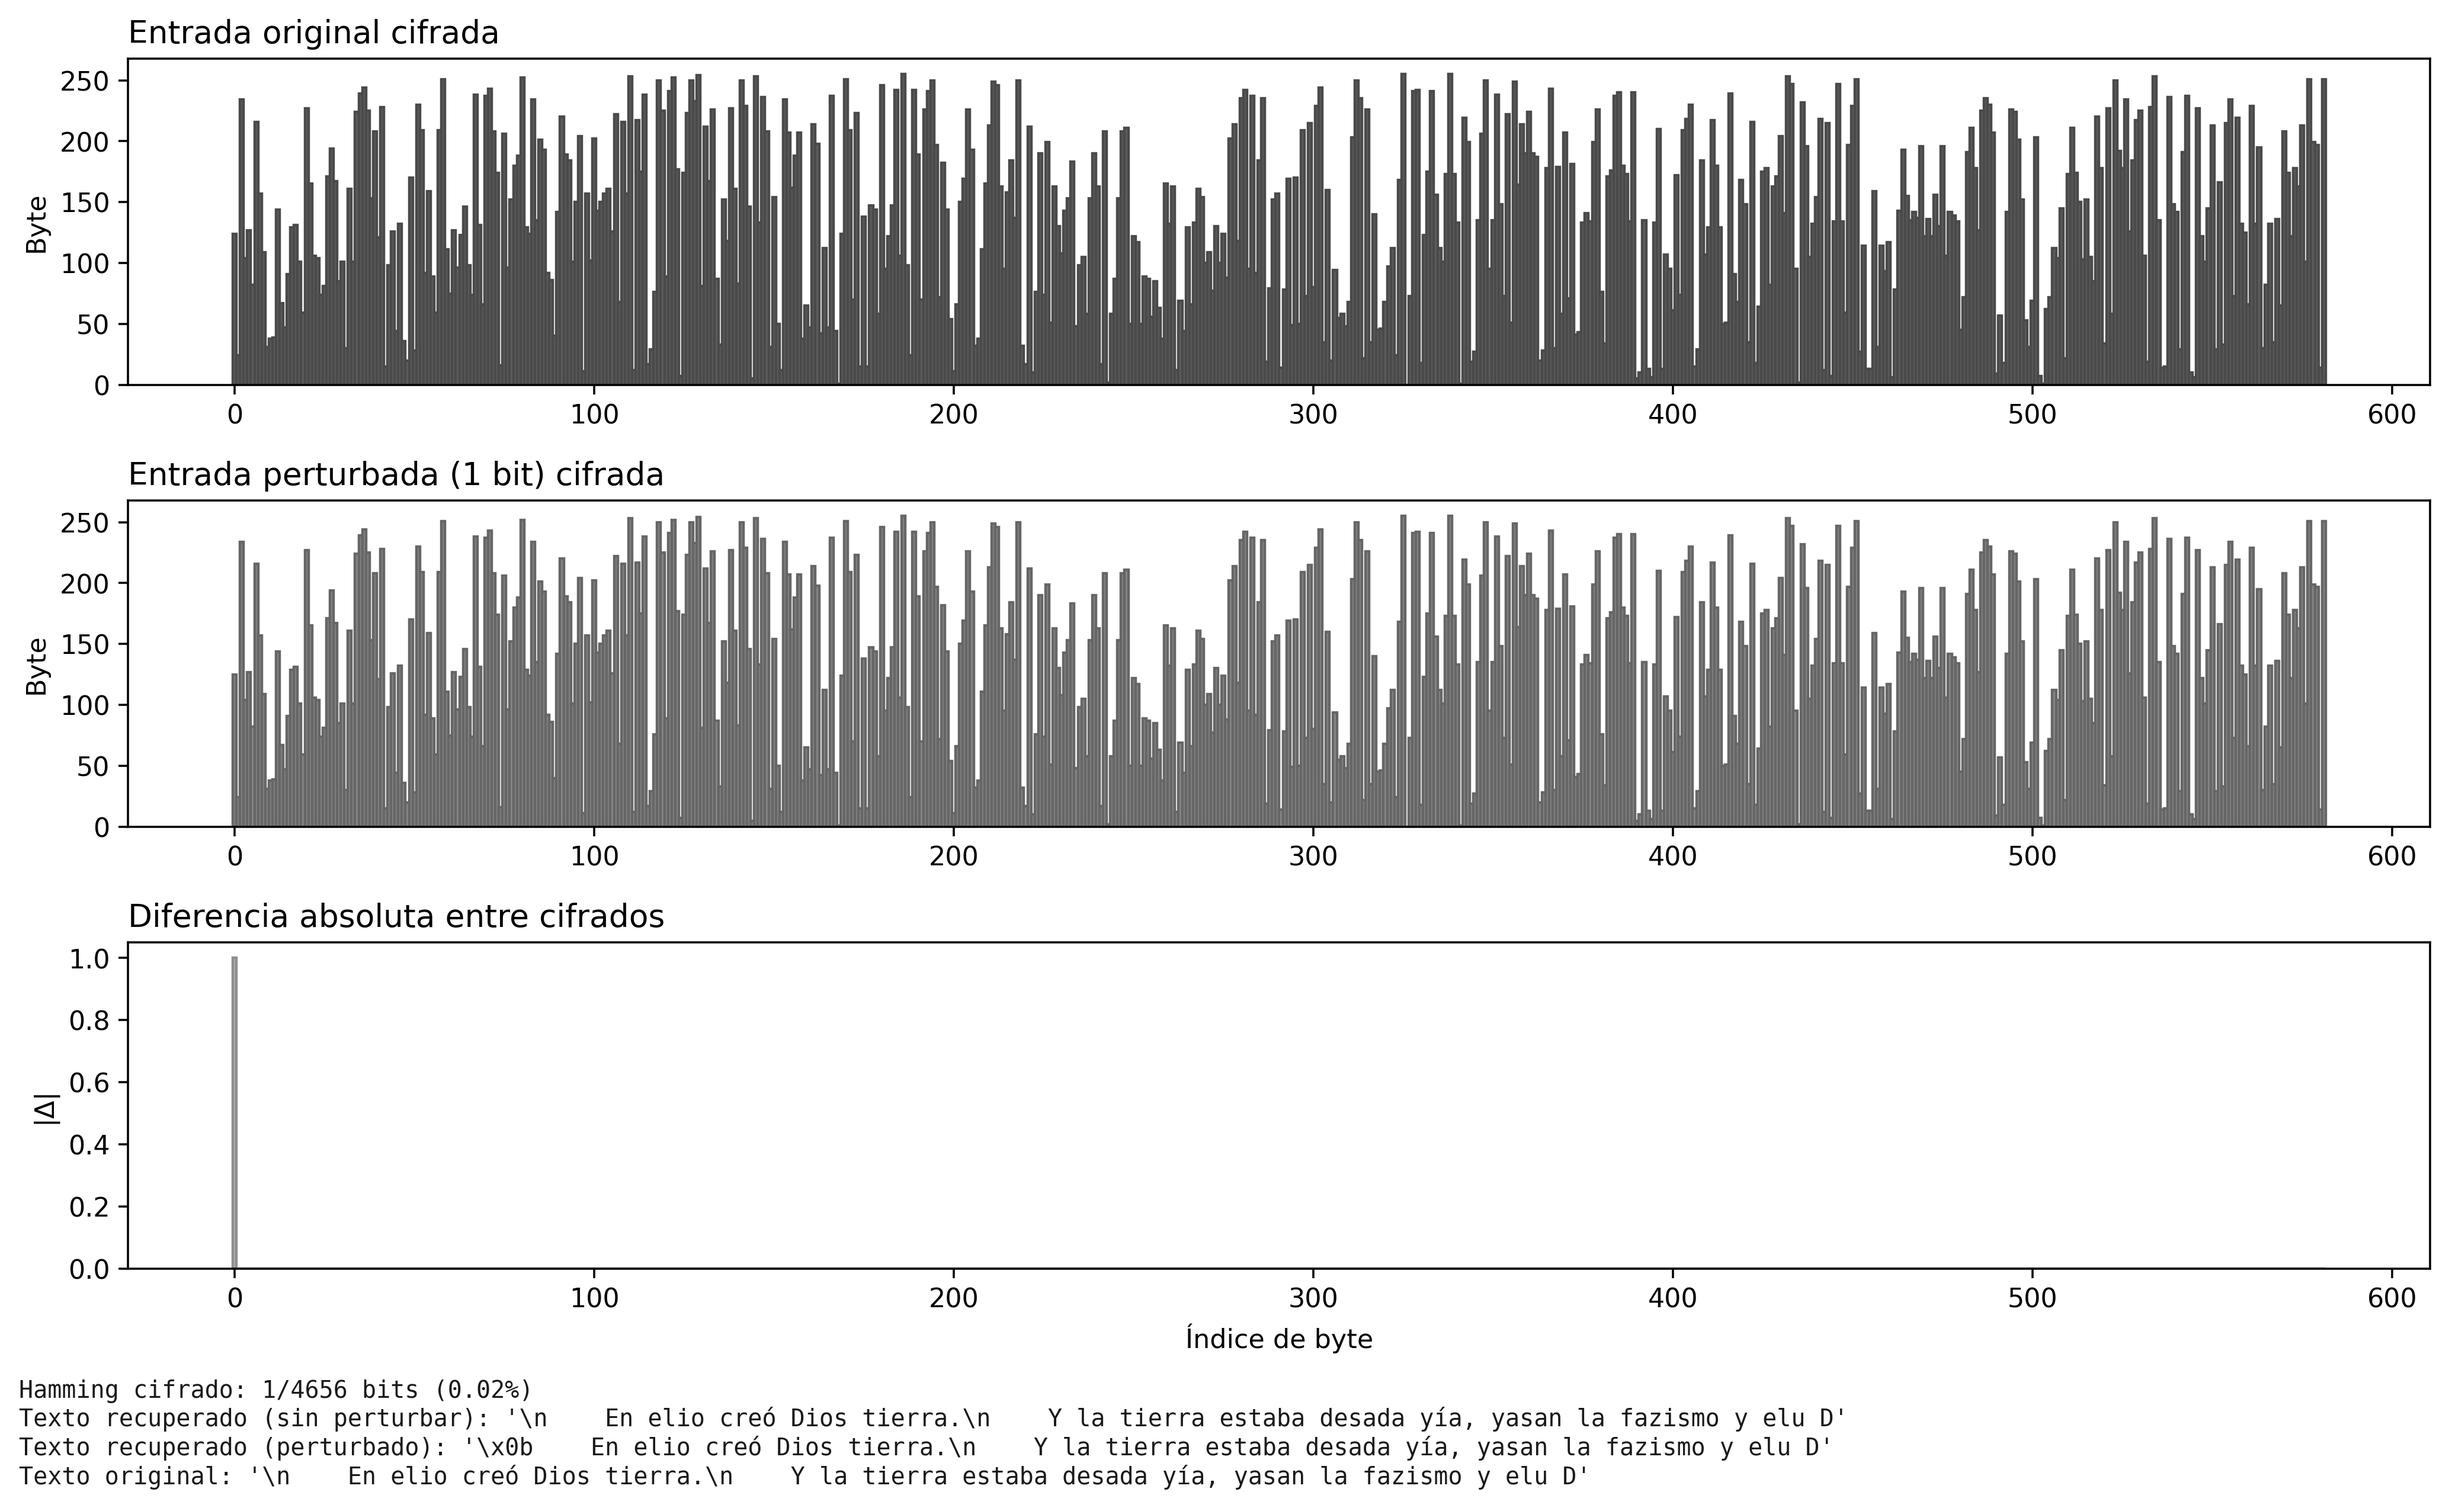
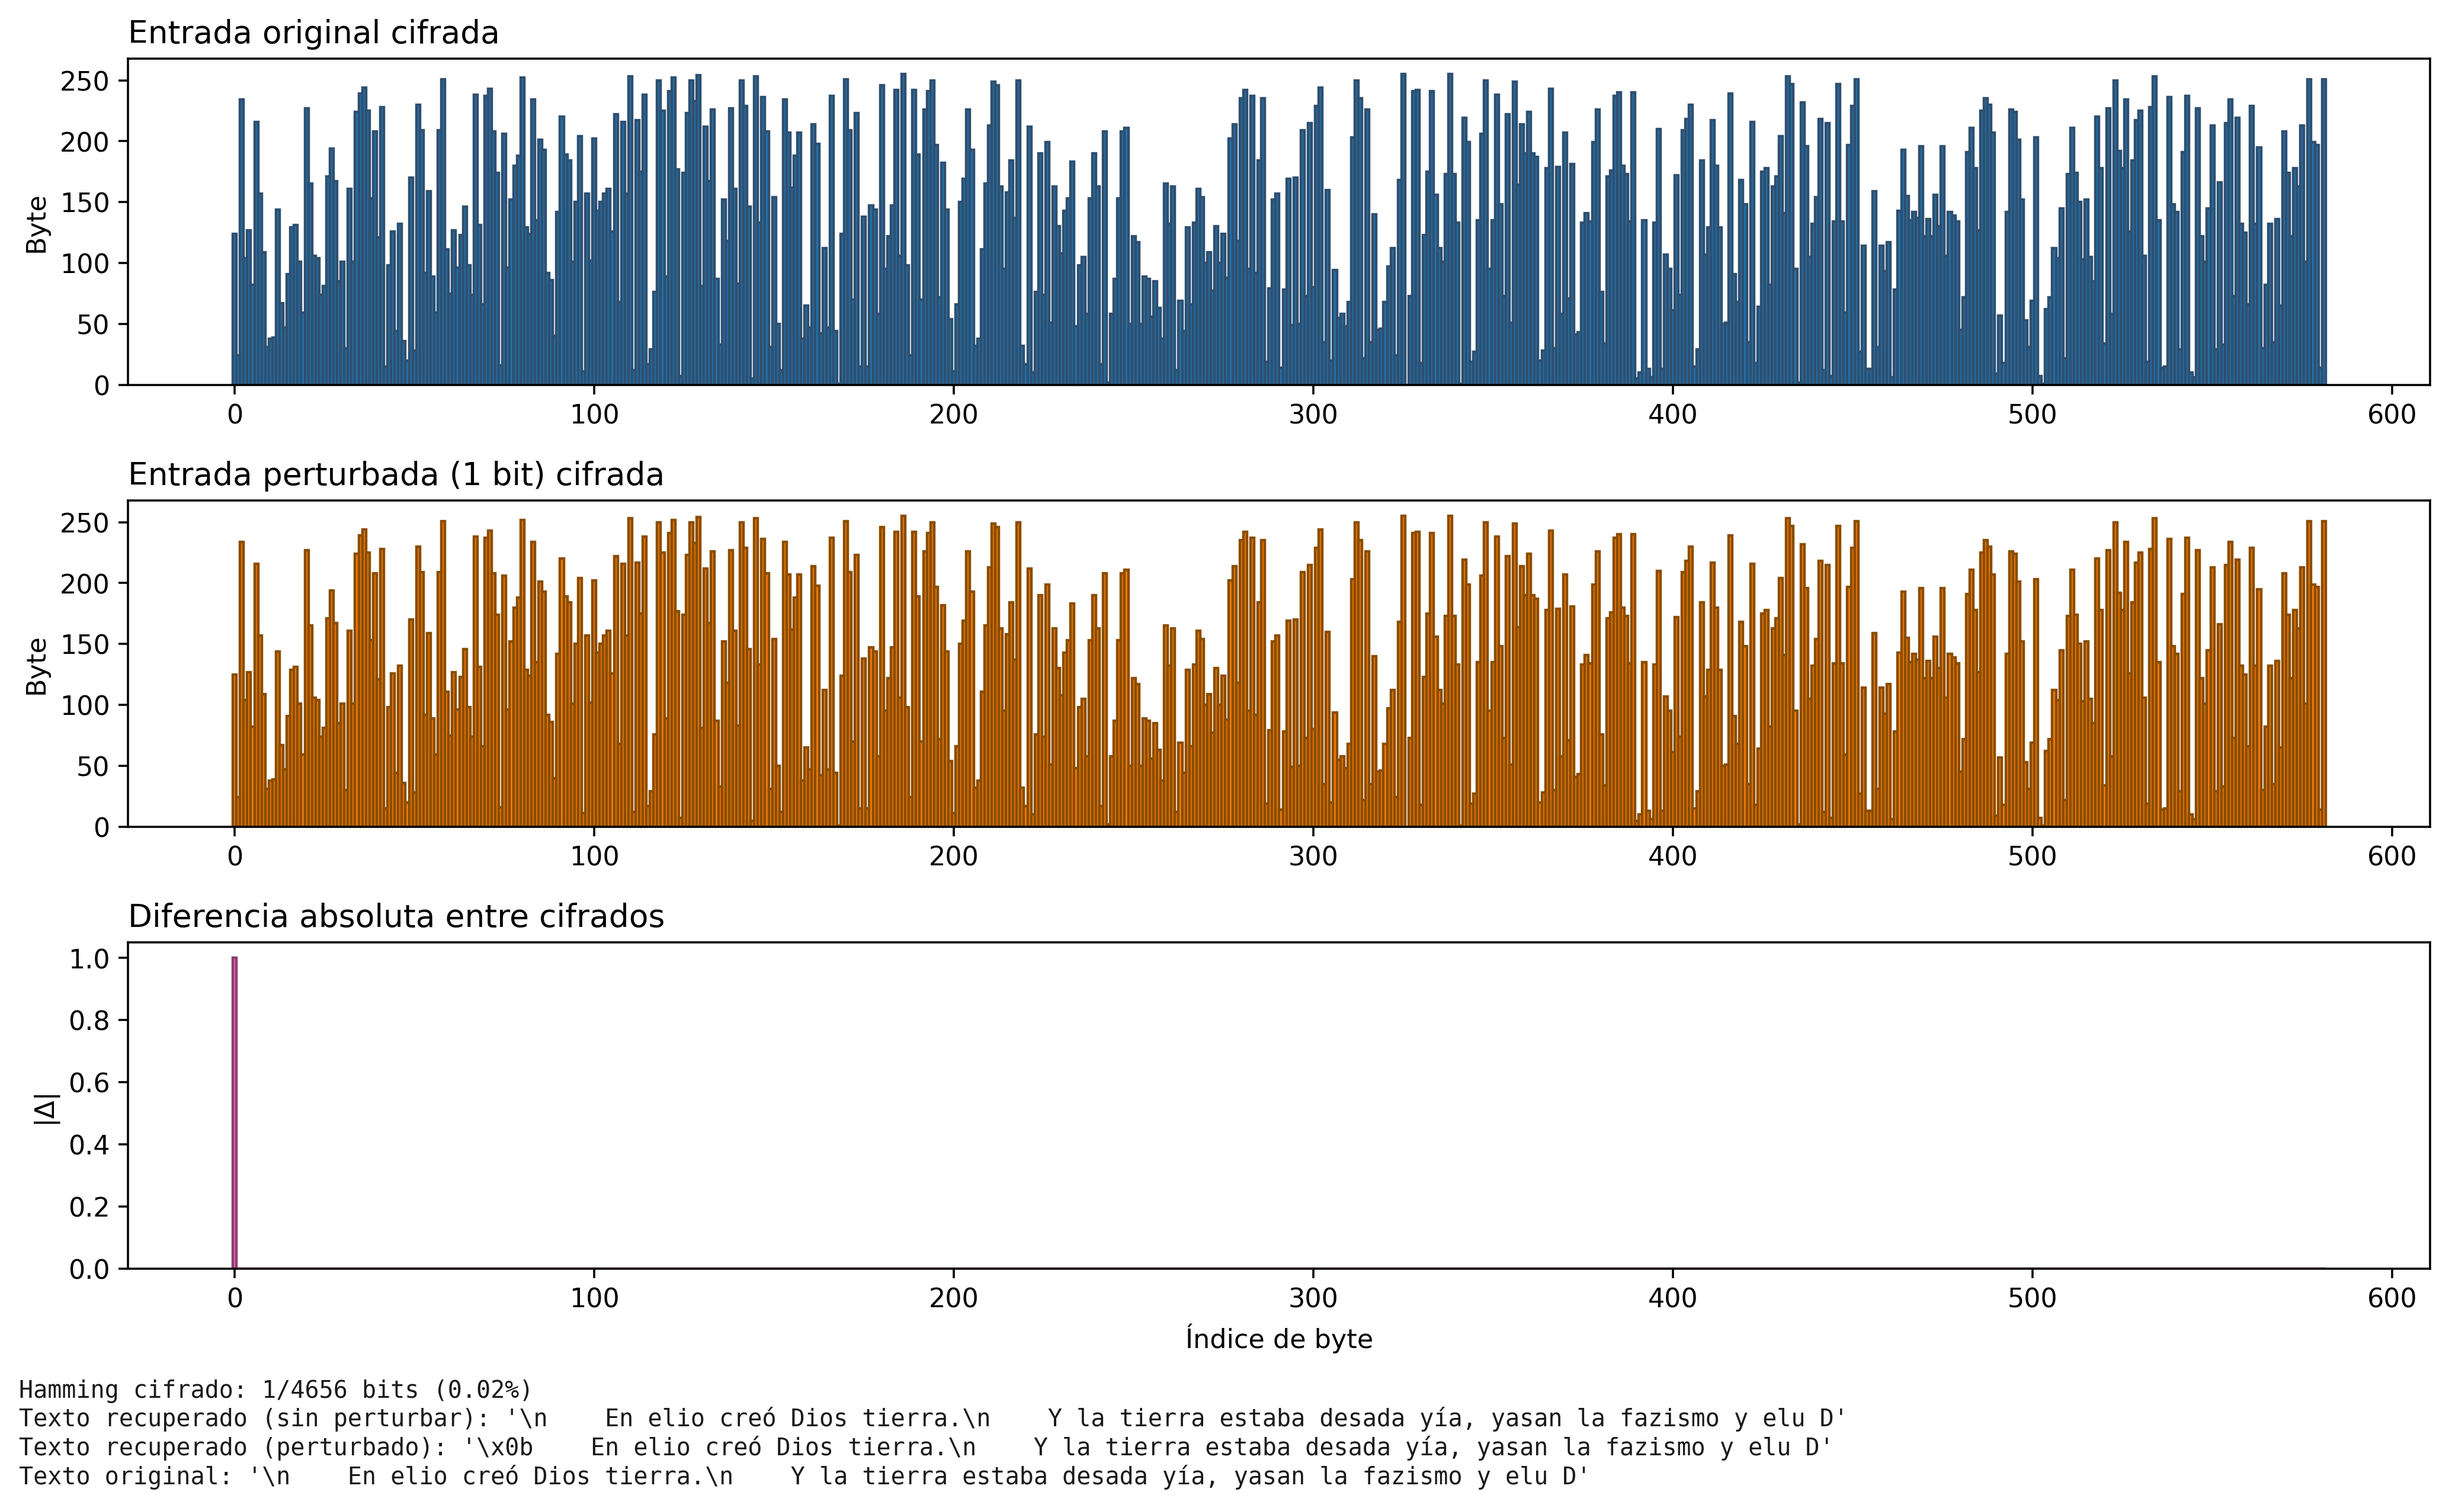
feat(docs): automatizar inyección de valores, zooms en Sec 1 y color en fallo perturbación

Changed region(s): [[0.0936, 0.031, 0.9673, 0.2793], [0.0936, 0.3413, 0.9673, 0.5585]]

diff --git a/scripts/generar_analisis_completo.py b/scripts/generar_analisis_completo.py
@@ -18,6 +18,7 @@ Uso:
 from __future__ import annotations
 
 import json
+import re
 import wave
 from math import log
 from pathlib import Path
@@ -821,16 +822,34 @@ def generar_6_fallo_perturbacion(datos):
         ax.set_facecolor("white")
 
     x = np.arange(len(enc_ori))
-    axes[0].bar(x, enc_ori, color="#5f5f5f", width=1.0, edgecolor="#4a4a4a")
+    axes[0].bar(
+        x,
+        enc_ori,
+        color=COLORES["original"],
+        width=1.0,
+        edgecolor="#2f4f6f",
+    )
     axes[0].set_title("Entrada original cifrada", loc="left")
     axes[0].set_ylabel("Byte")
 
-    axes[1].bar(x, enc_per, color="#8a8a8a", width=1.0, edgecolor="#666666")
+    axes[1].bar(
+        x,
+        enc_per,
+        color=COLORES["modificado"],
+        width=1.0,
+        edgecolor="#8a4d00",
+    )
     axes[1].set_title("Entrada perturbada (1 bit) cifrada", loc="left")
     axes[1].set_ylabel("Byte")
 
     dif_abs = np.abs(enc_ori.astype(np.int16) - enc_per.astype(np.int16))
-    axes[2].bar(x, dif_abs, color="#b4b4b4", width=1.0, edgecolor="#8f8f8f")
+    axes[2].bar(
+        x,
+        dif_abs,
+        color=COLORES["fallo"],
+        width=1.0,
+        edgecolor="#8f3b74",
+    )
     axes[2].set_title("Diferencia absoluta entre cifrados", loc="left")
     axes[2].set_xlabel("Índice de byte")
     axes[2].set_ylabel("|Δ|")
@@ -860,6 +879,125 @@ def generar_6_fallo_perturbacion(datos):
         "total_bits": int(total_bits),
         "porcentaje_bits_dif": float(pct_bits_dif),
     }
+
+
+def generar_zooms_seccion_1(datos):
+    """Genera zooms comparativos de forma de onda para la Sección 1."""
+    print("\n--- Generando zooms de Sección 1 (onda original vs estegano)")
+
+    orig = datos["audio_original"]
+    mod = datos["audio_modificado"]
+
+    configuraciones = [
+        ("1_zoom_cerca.png", 500, "Zoom muy cercano"),
+        ("1_zoom_medio.png", 10_000, "Zoom medio"),
+        ("1_zoom_completo.png", len(orig), "Señal completa"),
+    ]
+
+    for nombre, n_muestras, titulo in configuraciones:
+        n = min(len(orig), n_muestras)
+        x = np.arange(n)
+
+        fig, ax = plt.subplots(figsize=(16, 4.5), facecolor="white")
+        ax.set_facecolor("white")
+
+        linewidth = 0.7 if n <= 10_000 else 0.2
+        ax.plot(
+            x,
+            orig[:n],
+            color=COLORES["original"],
+            linewidth=linewidth,
+            alpha=0.9,
+            label="Audio original",
+        )
+        ax.plot(
+            x,
+            mod[:n],
+            color=COLORES["modificado"],
+            linewidth=linewidth,
+            alpha=0.75,
+            label="Audio esteganografiado",
+        )
+
+        ax.set_title(f"Sección 1 — {titulo} ({n:,} muestras)", **FONT_TITLE)
+        ax.set_xlabel("Índice de muestra", **FONT_LABEL)
+        ax.set_ylabel("Amplitud", **FONT_LABEL)
+        ax.grid(alpha=0.15, color=COLORES["grid"])
+        ax.legend(loc="upper right", fontsize=10)
+
+        fig.tight_layout()
+        _guardar(fig, nombre)
+
+
+def inyectar_valores_en_readme(res_mse: dict) -> None:
+    """Reemplaza placeholders matemáticos en README con valores calculados."""
+    ruta_readme = SALIDA / "README.md"
+    if not ruta_readme.exists():
+        print(f"  [WARN] README no encontrado en {ruta_readme}")
+        return
+
+    contenido = ruta_readme.read_text(encoding="utf-8")
+
+    sigma_x = np.sqrt(res_mse["var_orig"])
+    sigma_y = np.sqrt(res_mse["var_mod"])
+
+    reemplazos = {
+        "{{VAL_COV}}": f"{res_mse['cov_orig_mod']:.8f}",
+        "{{VAL_PEARSON}}": f"{res_mse['r_audio']:.16f}",
+        "{{VAL_SIGMA_X}}": f"{sigma_x:.8f}",
+        "{{VAL_SIGMA_Y}}": f"{sigma_y:.8f}",
+        "{{VAL_MSE}}": f"{res_mse['mse']:.15e}",
+        "{{VAL_MSE_APROX}}": f"{res_mse['mse']:.10f}",
+        "{{VAL_PSNR}}": f"{res_mse['psnr_db']:.10f}",
+    }
+
+    faltantes = [token for token in reemplazos if token not in contenido]
+    for token, valor in reemplazos.items():
+        contenido = contenido.replace(token, valor)
+
+    # Fallback idempotente: si no hay placeholders, refrescar ecuaciones por patrón.
+    contenido = re.sub(
+        r"Cov\(X,Y\)=\d[\d\.eE\+\-]*",
+        f"Cov(X,Y)={res_mse['cov_orig_mod']:.8f}",
+        contenido,
+    )
+    contenido = re.sub(
+        r"\\rho=\\frac\{[^\n]*\}\{\([^\n]*\)\([^\n]*\)\}=[^\n]*",
+        lambda _m: (
+            "\\rho=\\frac"
+            f"{{{res_mse['cov_orig_mod']:.8f}}}"
+            f"{{({sigma_x:.8f})({sigma_y:.8f})}}={res_mse['r_audio']:.16f}"
+            "\\approx 1.0000000000"
+        ),
+        contenido,
+    )
+    contenido = re.sub(
+        r"MSE=\\frac\{1\}\{N\}\\sum_\{i=1\}\^\{N\}\(x_i-y_i\)\^2=[^\n]*",
+        lambda _m: (
+            "MSE=\\frac{1}{N}\\sum_{i=1}^{N}(x_i-y_i)^2="
+            f"{res_mse['mse']:.15e}\\approx{res_mse['mse']:.10f}"
+        ),
+        contenido,
+    )
+    contenido = re.sub(
+        r"PSNR=10\\log_\{10\}\\left\(\\frac\{32767\^2\}\{[^\n]*\}\right\)=[^\n]*",
+        lambda _m: (
+            "PSNR=10\\log_{10}\\left(\\frac{32767^2}{"
+            f"{res_mse['mse']:.15e}"
+            "}\\right)="
+            f"{res_mse['psnr_db']:.10f}\\,dB\\approx130.64\\,dB"
+        ),
+        contenido,
+    )
+
+    ruta_readme.write_text(contenido, encoding="utf-8")
+    print("  [OK] Inyección de valores en README.md completada")
+    if faltantes:
+        print(
+            "  [WARN] Placeholders no encontrados (ya inyectados previamente o ausentes):"
+        )
+        for token in faltantes:
+            print(f"    - {token}")
 
 
 def _panel_ataques_con_texto(datos, tipo: str, nombre_archivo: str):
@@ -1310,6 +1448,7 @@ def main():
     datos = cargar_datos()
 
     # Entregables específicos de Fase 1
+    generar_zooms_seccion_1(datos)
     res_fallo = generar_6_fallo_perturbacion(datos)
     generar_7_paneles_ataques(datos)
 
@@ -1323,6 +1462,9 @@ def main():
     res_rob = analisis_robustez(datos)
     res_seg = analisis_seguridad_clave(datos)
     visualizaciones_mejoradas(datos)
+
+    # Inyección automatizada de valores matemáticos en README
+    inyectar_valores_en_readme(res_mse)
 
     # Resumen final
     print("\n" + "=" * 60)

diff --git a/outputs/entrega_profesoras/README.md b/outputs/entrega_profesoras/README.md
@@ -13,11 +13,13 @@
 > 🎵 **Nota sobre la Portadora de Audio (Creative Commons):**
 > Para la ejecución de estas pruebas se seleccionó el archivo de audio *audio_original.wav*, proveniente de la pista ["Let it Go" by Rewob (Featuring debbizo)](https://ccmixter.org/files/rewob/70685), obtenida del repositorio libre CCMixter. Esta pista (BPM 128, 4:45 min) opera bajo licencia **Creative Commons Attribution Noncommercial (4.0)**, garantizando su libre uso para fines de investigación académica, mitigando cualquier conflicto de derechos de autor.
 
-**Formas de Onda Comparativas:** 
+**Formas de Onda Comparativas (multi-zoom):**
 
-![Comparación de Ondas de Audio (Señal Completa)](./audio_waveforms.png)
+| Zoom muy cerca (500 muestras) | Zoom medio (10.000 muestras) | Señal completa |
+|---|---|---|
+| ![Zoom cerca](./1_zoom_cerca.png) | ![Zoom medio](./1_zoom_medio.png) | ![Zoom completo](./1_zoom_completo.png) |
 
-> 💡 **Lectura de ejes (Figura `audio_waveforms.png`):**
+> 💡 **Lectura de ejes (Figuras `1_zoom_cerca.png`, `1_zoom_medio.png`, `1_zoom_completo.png`):**
 > - **Eje X:** índice temporal de muestra (posición de cada muestra en la señal; en el zoom se observan ~100 muestras consecutivas).
 > - **Eje Y:** amplitud de la señal PCM (valor digital de cada muestra, en escala de 16 bits con signo).
 >
@@ -105,7 +107,7 @@ $$
 Con los datos reales de la ejecución actual (audio original vs estegoaudio):
 
 $$
-Cov(X,Y)=65{,}883{,}266.40887324
+Cov(X,Y)=65883266.40887324
 $$
 
 - $Cov(X,Y)$: covarianza entre las señales original y esteganografiada.
@@ -127,7 +129,7 @@ $$
 Sustituyendo con los valores reales de audio original vs estegoaudio:
 
 $$
-\rho=\frac{65{,}883{,}266.40887324}{(8116.85076930908)(8116.85076902388)}=0.9999999999993133\approx 1.0000000000
+\rho=\frac{65883266.40887324}{(8116.85076931)(8116.85076902)}=0.9999999999993133\approx 1.0000000000
 $$
 
 - $\rho_{X,Y}$: coeficiente de correlación lineal de Pearson.
@@ -146,7 +148,7 @@ $$
 Resultado numérico real de la ejecución (audio original vs estegoaudio):
 
 $$
-MSE=\frac{1}{N}\sum_{i=1}^{N}(x_i-y_i)^2=9.266789354185121\times10^{-5}\approx0.0000926679
+MSE=\frac{1}{N}\sum_{i=1}^{N}(x_i-y_i)^2=9.266789354185121e-05\approx0.0000926679
 $$
 
 - $MSE$: error cuadrático medio entre referencia y señal comparada.
@@ -167,7 +169,7 @@ $$
 Sustituyendo con $MAX_I=32767$ (PCM 16 bits con signo) y el MSE medido:
 
 $$
-PSNR=10\log_{10}\left(\frac{32767^2}{9.266789354185121\times10^{-5}}\right)=130.6394407121\,dB\approx130.64\,dB
+PSNR=10\log_{10}\left(\frac{32767^2}{9.266789354185121e-05}\right)=130.6394407121\,dB\approx130.64\,dB
 $$
 
 - $PSNR$: relación señal-ruido pico en decibelios.
@@ -296,7 +298,7 @@ $$
 Para la ejecución actual (audio original vs estegoaudio):
 
 $$
-MSE=\frac{1}{N}\sum_{i=1}^{N}(x_i-y_i)^2=9.266789354185121\times10^{-5}\approx0.0000926679
+MSE=\frac{1}{N}\sum_{i=1}^{N}(x_i-y_i)^2=9.266789354185121e-05\approx0.0000926679
 $$
 
 - $MSE$: error cuadrático medio.
@@ -317,7 +319,7 @@ $$
 Con $MAX_I=32767$ y el MSE real medido:
 
 $$
-PSNR=10\log_{10}\left(\frac{32767^2}{9.266789354185121\times10^{-5}}\right)=130.6394407121\,dB\approx130.64\,dB
+PSNR=10\log_{10}\left(\frac{32767^2}{9.266789354185121e-05}\right)=130.6394407121\,dB\approx130.64\,dB
 $$
 
 - $PSNR$: razón señal-ruido pico en dB.
